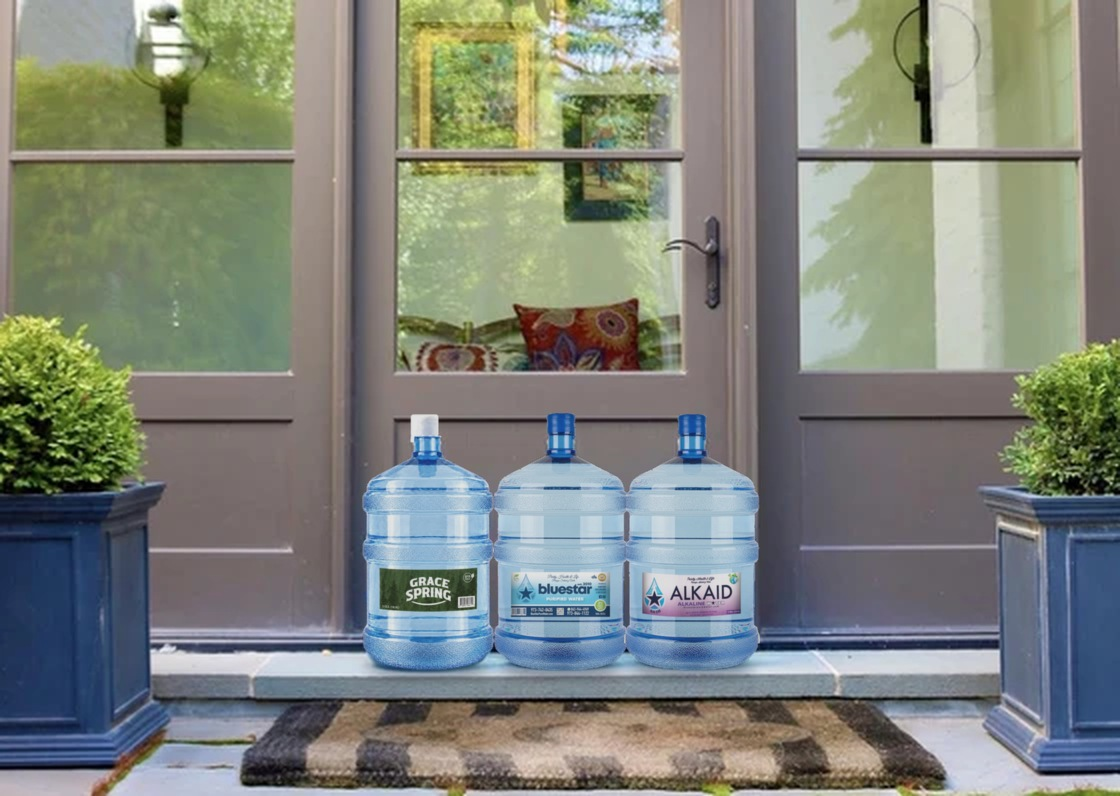
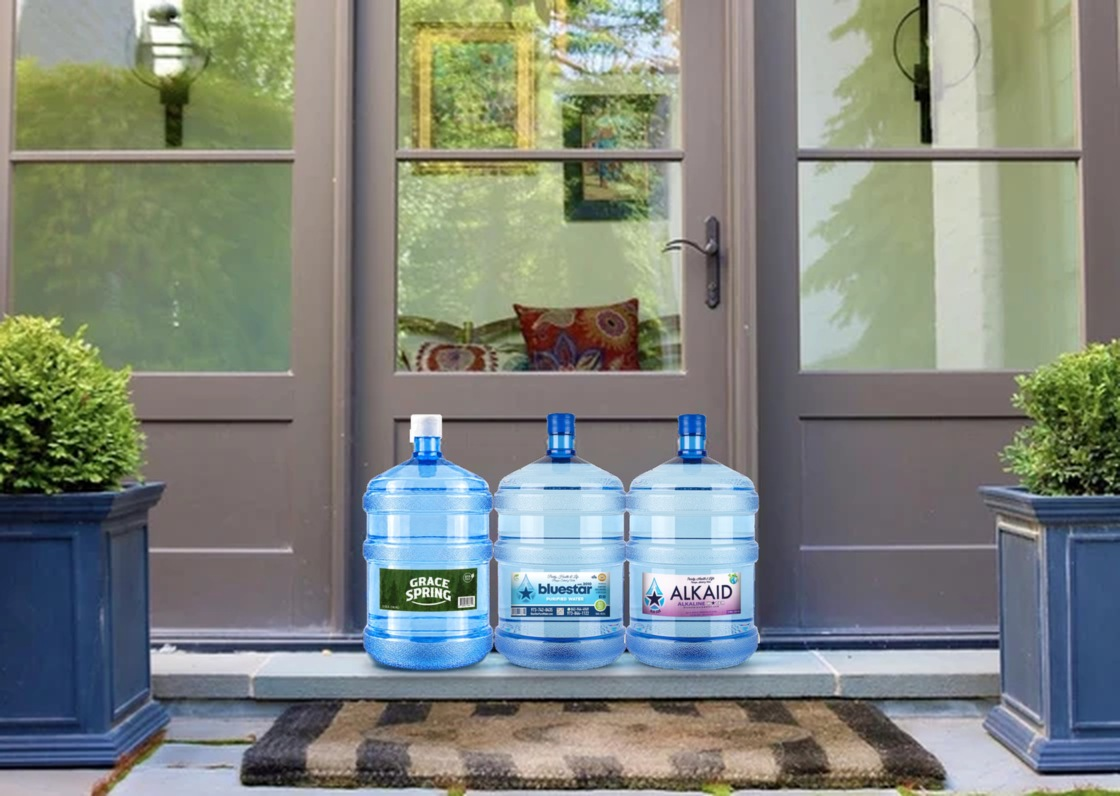
Doorstep photo: full traced Grace Spring cap, natural jug colors
Claude-Session: https://claude.ai/code/session_011y2TH2zgT7H1AYYPi3Ntwd

Changed region(s): [[0.3125, 0.5126, 0.6875, 0.8442]]

diff --git a/product-photos/src/jug_cutout.py b/product-photos/src/jug_cutout.py
@@ -18,21 +18,16 @@ m=np.array(mask)>0
 for y in range(m.shape[0]):
     xs=np.nonzero(m[y])[0]
     if len(xs)>1: m[y,xs[0]:xs[-1]+1]=True
-# cap: rows above the first blue neck pixel get a clean rounded rectangle
+# cap: traced from this photo (grace-spring-water-5-gallon-jug.jpg, 1800px):
+# rounded cap 792..972 x 156..292 (r=14) plus the tamper strip hanging on the left
 rgb=np.array(im).astype(int)
-blue=(rgb[:,:,2]-rgb[:,:,0])>60
 ys,xs=np.nonzero(m)
-top=ys.min(); cx=int(np.median(xs[ys<top+40]))
-neck=next(y for y in range(top,m.shape[0]) if blue[y,cx-30:cx+30].any())
-L=[];R=[]
-for y in range(top+10,neck-2):
-    xs_=np.nonzero(m[y])[0]
-    if len(xs_): L.append(xs_[0]); R.append(xs_[-1])
-l=int(np.percentile(L,20)); r=int(np.percentile(R,20))
-m[top:neck]=False
-capmask=Image.new('L',(m.shape[1],m.shape[0]),0)
-ImageDraw.Draw(capmask).rounded_rectangle((l,top,r,neck+4),radius=14,fill=255)
-m|=np.array(capmask)>0
+S4=4; cap=Image.new('L',(m.shape[1]*S4,m.shape[0]*S4),0); cd=ImageDraw.Draw(cap)
+cd.rounded_rectangle((792*S4,156*S4,972*S4,300*S4),radius=14*S4,fill=255)
+cd.rounded_rectangle((786*S4,240*S4,815*S4,318*S4),radius=3*S4,fill=255)
+cap=cap.resize((m.shape[1],m.shape[0]),Image.LANCZOS)
+capa=np.array(cap)
+m[:286]=False            # everything above the neck comes from the traced cap
 # base: drop neutral-grey (shadow) pixels in the bottom band
 H=m.shape[0]; ys_=ys.max()
 band=slice(ys_-140,ys_+1)
@@ -43,5 +38,6 @@ for y in range(ys_-140,ys_+1):
     if len(xs2)>1: m[y,xs2[0]:xs2[-1]+1]=True
 mask=Image.fromarray((m*255).astype('uint8'))
 mask=mask.filter(ImageFilter.MinFilter(3)).filter(ImageFilter.GaussianBlur(1.0))
+mask=Image.fromarray(np.maximum(np.array(mask),capa))
 out=im.convert('RGBA'); out.putalpha(mask)
 out=out.crop(mask.getbbox()); out.save(dst); print(out.size)

diff --git a/product-photos/src/doorstep_jugs.py b/product-photos/src/doorstep_jugs.py
@@ -4,7 +4,7 @@ GRACE='product-photos/src/grace-spring-jug-cutout.png'  # made with product-phot
 bg=Image.open('product-photos/src/doorstep-original.png').convert('RGBA')
 S=2; bg=bg.resize((bg.width*S,bg.height*S),Image.LANCZOS)
 def load(p): j=Image.open(R+p).convert('RGBA'); return j.crop(j.getbbox())
-spring=Image.open(GRACE).convert('RGBA'); spring=spring.crop(spring.getbbox()); spring=ImageEnhance.Color(spring).enhance(0.8); spring=ImageEnhance.Brightness(spring).enhance(1.04); blue=load('RoutesTab.js'); alk=load('purified-5gal.png')
+spring=Image.open(GRACE).convert('RGBA'); spring=spring.crop(spring.getbbox()); blue=load('RoutesTab.js'); alk=load('purified-5gal.png')
 # drop the grey floor shadow baked into the ALKAID cutout
 ap=alk.load()
 for y in range(alk.height-110,alk.height):
@@ -14,7 +14,7 @@ for y in range(alk.height-110,alk.height):
 alk=alk.crop(alk.getbbox())
 out=bg.copy()
 def soften(j):
-    j=ImageEnhance.Contrast(j).enhance(0.88); j=ImageEnhance.Color(j).enhance(0.88); j=ImageEnhance.Brightness(j).enhance(0.94)
+    
     return j.filter(ImageFilter.GaussianBlur(0.5))
 def shadow(cx,yb,w):
     pad=40; h=14; m=Image.new('L',(w+2*pad,h+2*pad),0)
